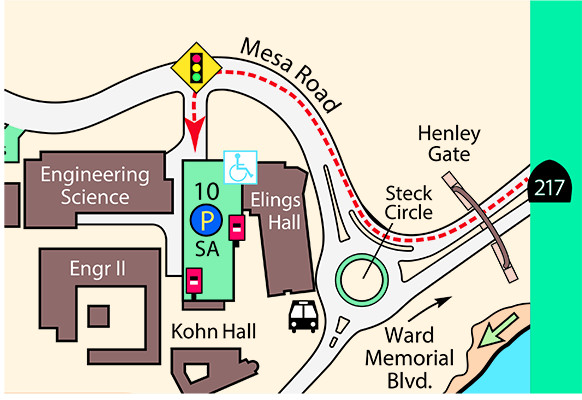
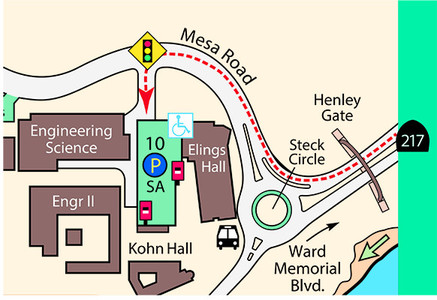
Decreased size of campus map.

diff --git a/contact/index.html b/contact/index.html
@@ -5,7 +5,7 @@ layout: default
     <div class="container">
         <h3>Contact</h3>
         <div class="row">
-            <div class="col-md-5">
+            <div class="col-md-6">
                 <h4>Frank Zok</h4>
                 <p>(805) 893-8699 • zok@engineering.ucsb.edu</p> <br>
                 <h4>Ali Todhunter, Administrative Assistant</h4>
@@ -26,8 +26,8 @@ layout: default
                     </div>
                 </div>
             </div>
-            <div class="col-md-4">
-                <img src="{{site.baseurl}}/assets/img/contact/campus-map.jpg" alt="Campus map">
+            <div class="col-md-6">
+                <img class="campus-map" src="{{site.baseurl}}/assets/img/contact/campus-map.jpg" alt="Campus map">
             </div>
         </div>
         

diff --git a/assets/css/style.scss b/assets/css/style.scss
@@ -119,6 +119,16 @@ body {
 }
 
 /*
+********* Contact *********
+*/
+
+#contact {
+    .campus-map {
+        max-height: 300px;
+    }
+}
+
+/*
 ********* Footer *********
 */
 #footer {
